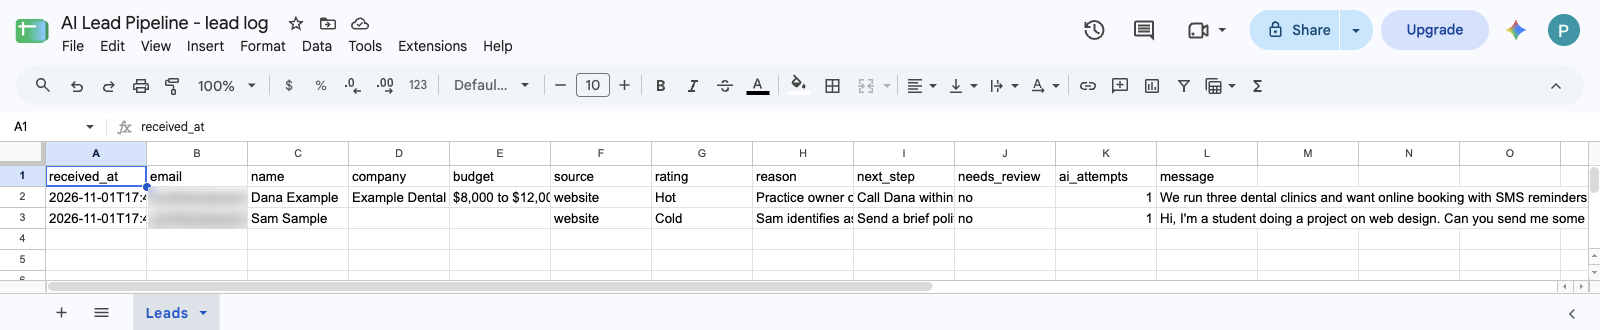
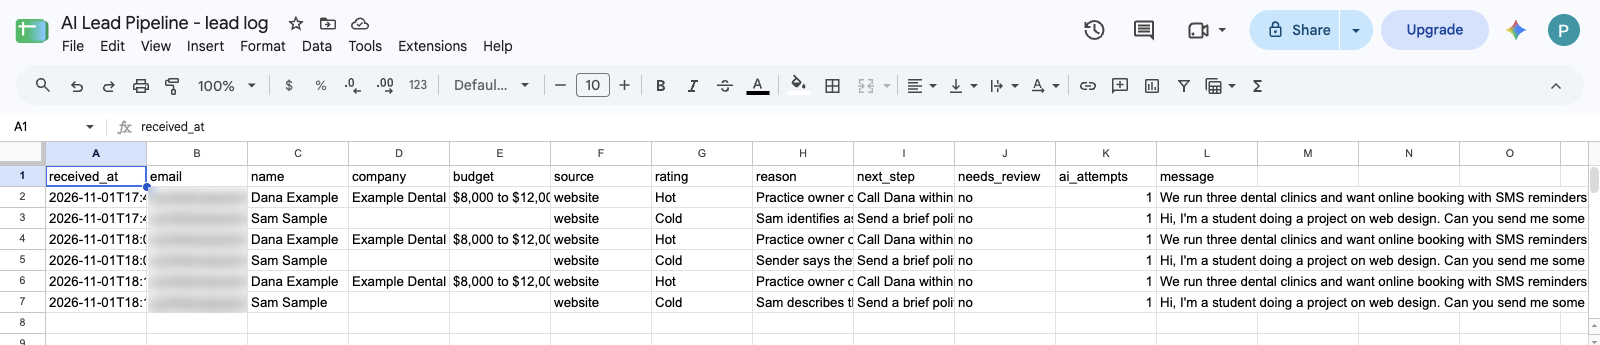
README: full n8n Cloud run with HubSpot, Sheets, Slack and Gmail evidence

diff --git a/README.md b/README.md
@@ -2,9 +2,9 @@
 
 A production-style n8n workflow for inbound leads. A web form posts to a webhook, the lead is validated and de-duplicated, Claude rates it Hot, Warm or Cold with a one-line reason, and then the contact is upserted in HubSpot, logged to a Google Sheet, a Slack alert goes out for Hot leads, and the lead gets a welcome email. A separate error workflow emails the team if any step fails.
 
-![Live webhook run: hot, cold, duplicate and invalid leads](media/live-webhook-run.png)
+![Cloud execution of a Hot lead: every node green, from webhook through Claude to HubSpot, Sheets, Slack and Gmail](media/cloud-execution.png)
 
-*A real run on self-hosted n8n with real Claude calls: the hot lead is rated Hot and routed to Slack, the student is rated Cold, the repeat email is caught as a duplicate and the broken submission is rejected with every error listed.*
+*A real run on n8n Cloud: the lead is validated, de-duplicated, rated Hot by Claude, upserted to HubSpot, logged to Google Sheets, posted to Slack and sent a welcome email. Screenshots of each destination are under [Tested live](#tested-live).*
 
 ## How it works
 
@@ -96,34 +96,38 @@ The tests cover validation and normalisation, the Claude request shape, every pa
 
 ## Tested live
 
-**Tested live on 1 November 2026, self-hosted n8n 2.45.7, real Claude calls (`claude-sonnet-5-5`).** The four leads in `samples/leads.json` were posted to the production webhook. HubSpot, Sheets, Slack and Gmail nodes were switched off for this run (no accounts on the test machine), so this run proves everything up to and including the routing into them:
+### Full run on n8n Cloud, 1 November 2026
 
-| Lead | Webhook reply | Claude's rating | Path taken |
-|---|---|---|---|
-| Dental group owner, budget and January deadline | `202 accepted` | **Hot**: "Practice owner of a three-clinic dental group wants online booking with SMS reminders live before 15 January, with a stated $8k-$12k budget and a request for a quote and call this week." | First attempt parsed, Hot branch into Slack |
-| Student asking for free templates | `202 accepted` | **Cold**: "Sam self-identifies as a student working on a school project and is asking for free templates..." | First attempt parsed, no Slack |
-| Same email as the Hot lead, in capitals | `200 duplicate` | not called | Stopped at Dedupe by email |
-| Bad email, no name, two-word message | `400` with all 3 errors listed | not called | Stopped at validation |
+n8n Cloud 2.46.3, workflows imported from the JSON in this repo, real Anthropic (`claude-sonnet-5-5`), HubSpot, Google Sheets, Slack and Gmail connections. Four leads were posted to the production webhook:
 
-Two failure paths were also run for real:
+| Lead | Webhook reply | Result |
+|---|---|---|
+| Dental group owner, budget and January deadline | `202 accepted` | Rated **Hot**: "Practice owner of a three-clinic dental group wants online booking with SMS reminders live by 15 January, has a stated $8k-$12k budget, and is asking for a quote and call this week." HubSpot contact upserted, Sheet row added, Slack alert posted, welcome email sent |
+| Student asking for free templates | `202 accepted` | Rated **Cold**: "...describes themselves as a student working on a project and asks for free templates... with no company, budget, or purchase intent given." HubSpot, Sheet and email done, no Slack alert |
+| The Hot lead's email again, in different capitals | `200 duplicate` | Stopped at Dedupe by email |
+| Bad email, no name, two-word message | `400`, all 3 errors listed | Stopped at validation |
 
-- **AI fallback.** On a first run the Anthropic credential was empty by mistake. Each lead went through 3 HTTP tries, the retry branch, 3 more tries, and came out as `Warm`, `needs review = yes`, reason "Automatic rating failed (API error: Authorization failed - please check your credentials)". The run still finished.
-- **Error workflow.** With the HubSpot node switched on but no credential, the main run failed at "HubSpot: upsert contact" and the error workflow ran on its own and produced: subject `n8n failure: AI Lead Pipeline at "HubSpot: upsert contact"`, body naming the error "Node does not have any credentials set" and linking the failed execution.
+![Cloud execution of the Hot lead: every node green, including HubSpot, Sheets, Slack and Gmail](media/cloud-execution.png)
 
-**Then on n8n Cloud (2.46.3), 1 November 2026,** imported from the exported JSON, with real Anthropic, Google Sheets and Gmail credentials. HubSpot and Slack were switched off for this first run while those accounts were being set up:
-
-- Hot lead: `202`, rated **Hot** ("...a stated $8k-$12k budget and sign-off authority this month. She is asking for a quote and a call this week."), row appended to the Sheet, welcome email delivered, and the Hot lead? check sent it down the Slack branch.
-- Cold lead: `202`, rated **Cold** ("...a student working on a school project... no company, budget, or business need stated"), row appended, welcome email delivered, no Slack.
-- Same email again in mixed case: `200 duplicate`, nothing else ran.
-- On the first attempt the Sheets step failed (see the consent tip in Setup). The error workflow fired for both runs on its own and its Gmail alert was sent. After fixing the credential, both failed executions were retried from n8n and finished cleanly. That is the recovery path described under Limitations, done for real.
-
-![The lead log Sheet after the Cloud run](media/cloud-sheet.png)
-
-**HubSpot, same day.** With the HubSpot node switched on, a second hot and cold lead ran clean end to end (webhook, Claude, HubSpot, Sheet, Gmail). Both contacts were created in HubSpot with lifecycle stage Lead and the three AI properties filled in, for example `ai_lead_rating = Hot`, `ai_needs_review = No`, and the reason text below. The Cold lead got `ai_lead_rating = Cold`.
+![The Slack alert for the Hot lead (only Hot leads post here)](media/cloud-slack-alert.png)
 
 ![HubSpot contact created by the pipeline, with the AI rating fields](media/cloud-hubspot-contact.png)
 
-<!-- SLACK-RESULTS -->
+![The lead log Sheet: one row per lead, header written by n8n](media/cloud-sheet.png)
+
+*Email addresses are blurred in the screenshots. The test leads used plus-addresses of a real inbox so the welcome emails were actually delivered.*
+
+### Failure paths, run for real
+
+- **Error workflow plus retry (Cloud).** Before the full run, the Google Sheets connection had been granted without its Sheets scope (see the consent tip in Setup). Two leads failed at "Google Sheets: log lead"; the error workflow fired for each on its own and sent its Gmail alert. After the credential was fixed, both failed executions were retried from n8n and finished cleanly, which is the recovery path described under Limitations.
+- **AI fallback (self-hosted).** On a run where the Anthropic credential was empty, each lead went through 3 HTTP tries, the retry branch and 3 more tries, then came out as `Warm`, `needs review = yes`, reason "Automatic rating failed (API error: Authorization failed - please check your credentials)". The lead still flowed on.
+- **Error alert content (self-hosted).** With the HubSpot node on but no credential, the error workflow produced the subject `n8n failure: AI Lead Pipeline at "HubSpot: upsert contact"` and a body naming the error ("Node does not have any credentials set") with a link to the failed execution.
+
+### First run, self-hosted n8n 2.45.7
+
+The same four leads were first run on a local n8n with only Claude connected (integration nodes switched off), to prove validation, dedupe, rating and routing before any accounts existed:
+
+![Live webhook run on self-hosted n8n](media/live-webhook-run.png)
 
 ## Limitations
 
